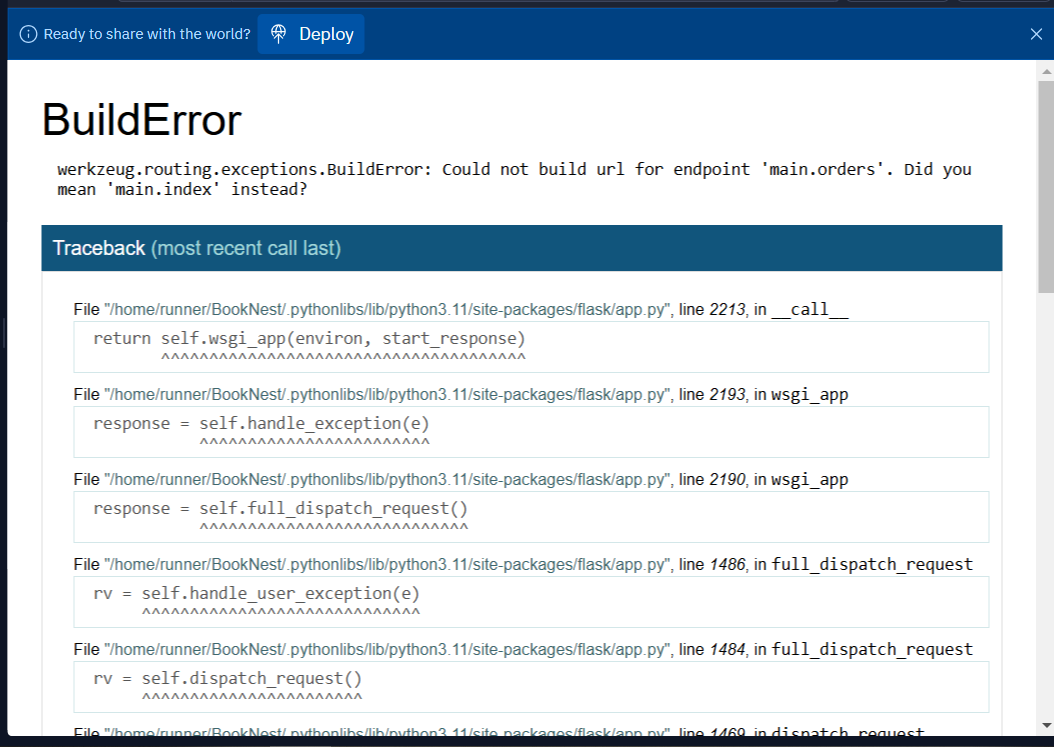
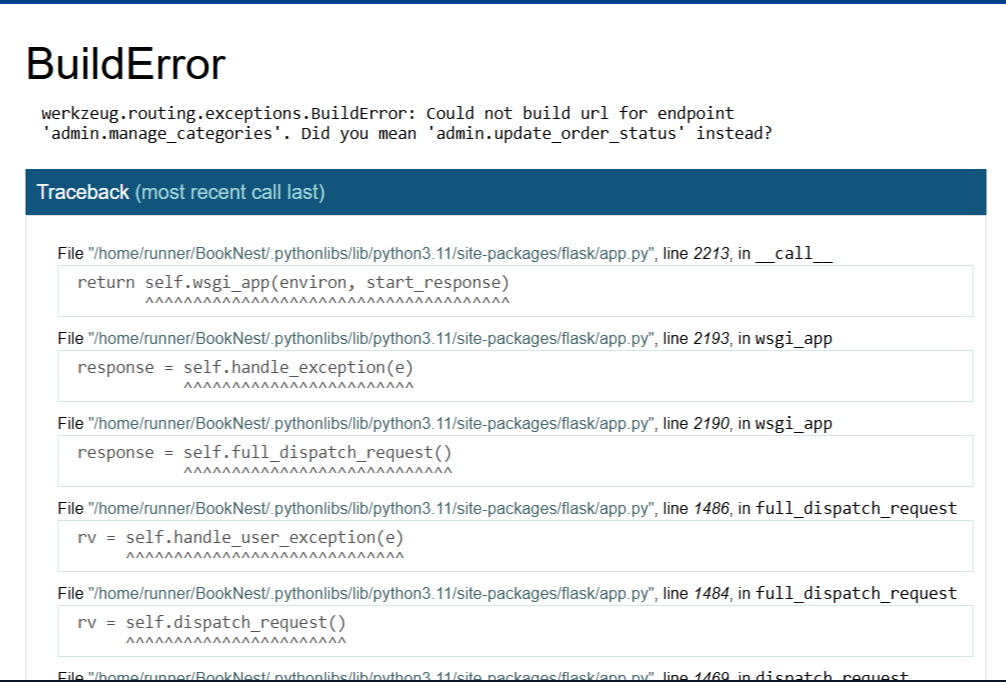
Agent query: 1. Is the book carousel showing featured books on the homepage? 2. Are multiple format options (hardcover, paperback, ebook) displayed on the book detail page? 3. Do the format options show different prices?

diff --git a/views/admin.py b/views/admin.py
@@ -7,6 +7,7 @@ from utils.activity_logger import log_user_activity
 from utils.mailer import send_order_status_email
 from werkzeug.security import generate_password_hash
 from functools import wraps
+from datetime import datetime
 
 admin = Blueprint('admin', __name__, url_prefix='/admin')
 
@@ -31,6 +32,53 @@ def dashboard():
                          books=books,
                          orders=orders,
                          categories=categories)
+
+@admin.route('/categories')
+@permission_required('manage_categories')
+def manage_categories():
+    categories = Category.query.order_by(Category.display_order).all()
+    form = CategoryForm()
+    return render_template('admin/categories.html', categories=categories, form=form)
+
+@admin.route('/categories/add', methods=['GET', 'POST'])
+@permission_required('manage_categories')
+def add_category():
+    form = CategoryForm()
+    if form.validate_on_submit():
+        category = Category(
+            name=form.name.data,
+            description=form.description.data,
+            display_order=form.display_order.data
+        )
+        db.session.add(category)
+        db.session.commit()
+        flash('Category added successfully!', 'success')
+        return redirect(url_for('admin.manage_categories'))
+    return render_template('admin/category_form.html', form=form)
+
+@admin.route('/categories/edit/<int:category_id>', methods=['GET', 'POST'])
+@permission_required('manage_categories')
+def edit_category(category_id):
+    category = Category.query.get_or_404(category_id)
+    form = CategoryForm(obj=category)
+    if form.validate_on_submit():
+        category.name = form.name.data
+        category.description = form.description.data
+        category.display_order = form.display_order.data
+        db.session.commit()
+        flash('Category updated successfully!', 'success')
+        return redirect(url_for('admin.manage_categories'))
+    return render_template('admin/category_form.html', form=form, category=category)
+
+@admin.route('/categories/delete/<int:category_id>', methods=['POST'])
+@permission_required('manage_categories')
+def delete_category(category_id):
+    category = Category.query.get_or_404(category_id)
+    if category.books:
+        return jsonify({'success': False, 'error': 'Cannot delete category with books'})
+    db.session.delete(category)
+    db.session.commit()
+    return jsonify({'success': True})
 
 @admin.route('/update_order_status/<int:order_id>', methods=['POST'])
 @permission_required('manage_orders')
